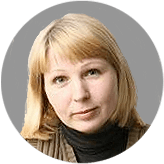
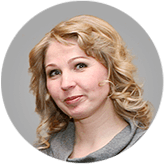
change pages

diff --git a/adv_ru.html b/adv_ru.html
@@ -43,7 +43,7 @@
             <strong>25 лет на российском рынке</strong>
           </p>
           <p>
-            <span class="i__text">DK.RU</span> — единственная площадка, объединяющая представителей бизнес-сообщества Екатеринбурга и Свердловской области. Наша ежемесячная аудитория превышает 1,2 млн человек*
+            <span class="i__text">DK.RU</span> — охватывает крупнейшие финансовые центры страны. Домашний регион — <a href="http://ekb.dk.ru/" target="_blank">Екатеринбург</a>. Филиалы в городах-миллионниках: <a href="http://chel.dk.ru/" target="_blank">Челябинск</a>, <a href="http://nsk.dk.ru/" target="_blank">Новосибирск</a>, <a href="http://krasnoyarsk.dk.ru/" target="_blank">Красноярск</a>, <a href="http://kazan.dk.ru/" target="_blank">Казань</a>, <a href="http://nn.dk.ru/" target="_blank">Нижний Новогород</a>, <a href="http://rostov.dk.ru/" target="_blank">Ростов-на-Дону</a>. Онлайн-представительства: <a href="http://dk.ru/" target="_blank">Москва</a>, <a href="http://dk.ru/" target="_blank">Санкт-Петербург</a>
           </p>
           <p>
             <span class="i__text">Аудитория:</span> собственники и 
@@ -107,9 +107,8 @@
               <div class="feature feature_special">
                 <p class="feature__text i i_content_special">
                   <span class="i__text">более</span><br>
-                  <span class="feature__number">1,2 млн</span><br>
-                  уникальных<br>
-                  пользователей<br>
+                  <span class="feature__number">4,2 млн</span><br>
+                  просмотров<br>
                   в месяц*
                 </p>
               </div>
@@ -211,7 +210,7 @@
                     Журнал<br> «Деловой квартал»
                   </h4>
                   <p class="feature__text">
-                    5000 экземпляров&nbsp;&mdash; тираж одного номера
+                    Выходит в Екатеринбурге, Челябинске, Новосибирске, Красноярске и Нижнем Новгороде
                   </p>
                 </div>
               </div>
@@ -230,8 +229,7 @@
                     Ежегодная деловая премия «Человек года»
                   </h4>
                   <p class="feature__text">
-                    Основана в 2010 г.<br>
-                    Церемонию вручения премии ежегодно посещают более <strong>700</strong> статусных гостей
+                    Одна из самых престижных региональных бизнес-премий России. Основана в 2010 г.
                   </p>
                 </div>
               </div>
@@ -239,7 +237,7 @@
           </ul>
         </div>
         <footer class="features__footer">
-          * Данные по домену EKB.DK.RU (для пользователей из Екатеринбурга и Свердловской области), ноябрь 2018 г., источник — Liveinternet
+          * Данные по всей сети DK.RU, март 2018 г., источник — Liveinternet
         </footer>
       </div>
       <div id="order">
@@ -287,15 +285,16 @@
           <div class="content-column content-column_layout_c">
             <div class="contact">
               <div class="contact__thumbnail">
-                <img class="contact__image" src="adv_files/person-3.png" srcset="adv_files/person-3@2x.png 2x" alt="Ольга Селезнева" title="Ольга Селезнева">
+                <img class="contact__image" src="adv_files/person-4.png" srcset="adv_files/person-4@2x.png 2x" alt="Андрей Пермяков" title="Андрей Пермяков">
               </div>
               <div class="contact__desc">
                 <div class="contact__name">
-                  Ольга Селезнева
+                  Андрей Пермяков
                 </div>
                 <p class="contact__text">
-                  Выпускающий<br> редактор
-                  <span class="link" data-to="mailto:selezneva@ek.apress.ru">selezneva@ek.apress.ru</span>
+                  Руководитель <br>
+                  федеральной редакции
+                  <span class="link" data-to="mailto:permjakov@ek.apress.ru">permjakov@ek.apress.ru</span>
                 </p>
               </div>
             </div>

diff --git a/adv_files/style.css b/adv_files/style.css
@@ -139,6 +139,14 @@
   margin-top: 27px;
 }
 
+.pure-content a {
+  color: #000;
+}
+
+.pure-content a:hover {
+  text-decoration: none;
+}
+
 .menu__list {
   margin: 0;
   padding: 0;
@@ -202,8 +210,8 @@
 }
 
 .features__item {
-  -ms-flex-preferred-size: 33.33%;
-      flex-basis: 33.33%;
+  -ms-flex-preferred-size: 30%;
+      flex-basis: 30%;
 }
 
 .features__item_order_1 {
@@ -214,6 +222,8 @@
 }
 
 .features__item_order_2 {
+  -ms-flex-preferred-size: 40%;
+      flex-basis: 40%;
   -webkit-box-ordinal-group: 3;
       -ms-flex-order: 2;
           order: 2;
@@ -232,7 +242,7 @@
           order: 4;
   -ms-flex-preferred-size: 100%;
       flex-basis: 100%;
-  margin-top: -218px;
+  margin-top: -288px;
   margin-bottom: 30px;
 }
 
@@ -244,6 +254,8 @@
 }
 
 .features__item_order_6 {
+  -ms-flex-preferred-size: 40%;
+      flex-basis: 40%;
   -webkit-box-ordinal-group: 7;
       -ms-flex-order: 6;
           order: 6;
@@ -257,7 +269,7 @@
 }
 
 .features__footer {
-  font-size: 14px;
+  font-size: 11px;
 }
 
 .feature {
@@ -265,6 +277,11 @@
   text-align: center;
   -webkit-box-sizing: border-box;
           box-sizing: border-box;
+}
+
+.features__item_order_2 .feature,
+.features__item_order_6 .feature {
+  padding: 0 15px;
 }
 
 .feature__thumbnail {
@@ -339,6 +356,11 @@
 
 .feature_special .feature__number {
   font-size: 123px;
+}
+
+.feature__link {
+  font-size: 14px;
+  color: #000;
 }
 
 .i_content_special .i__text {
@@ -444,7 +466,7 @@
   }
 
   .features__item_order_4 {
-    margin-top: -140px;
+    margin-top: -200px;
   }
 
   .feature_special {
@@ -649,6 +671,11 @@
     padding: 0;
   }
 
+  .features__item_order_2 .feature,
+  .features__item_order_6 .feature {
+    padding: 0;
+  }
+
   .feature__thumbnail {
     -ms-flex-negative: 0;
         flex-shrink: 0;
@@ -683,6 +710,10 @@
   .feature__text {
     font-size: 13px;
     text-align: left;
+  }
+
+  .feature__footer {
+    display: none;
   }
 
   .feature__list {
